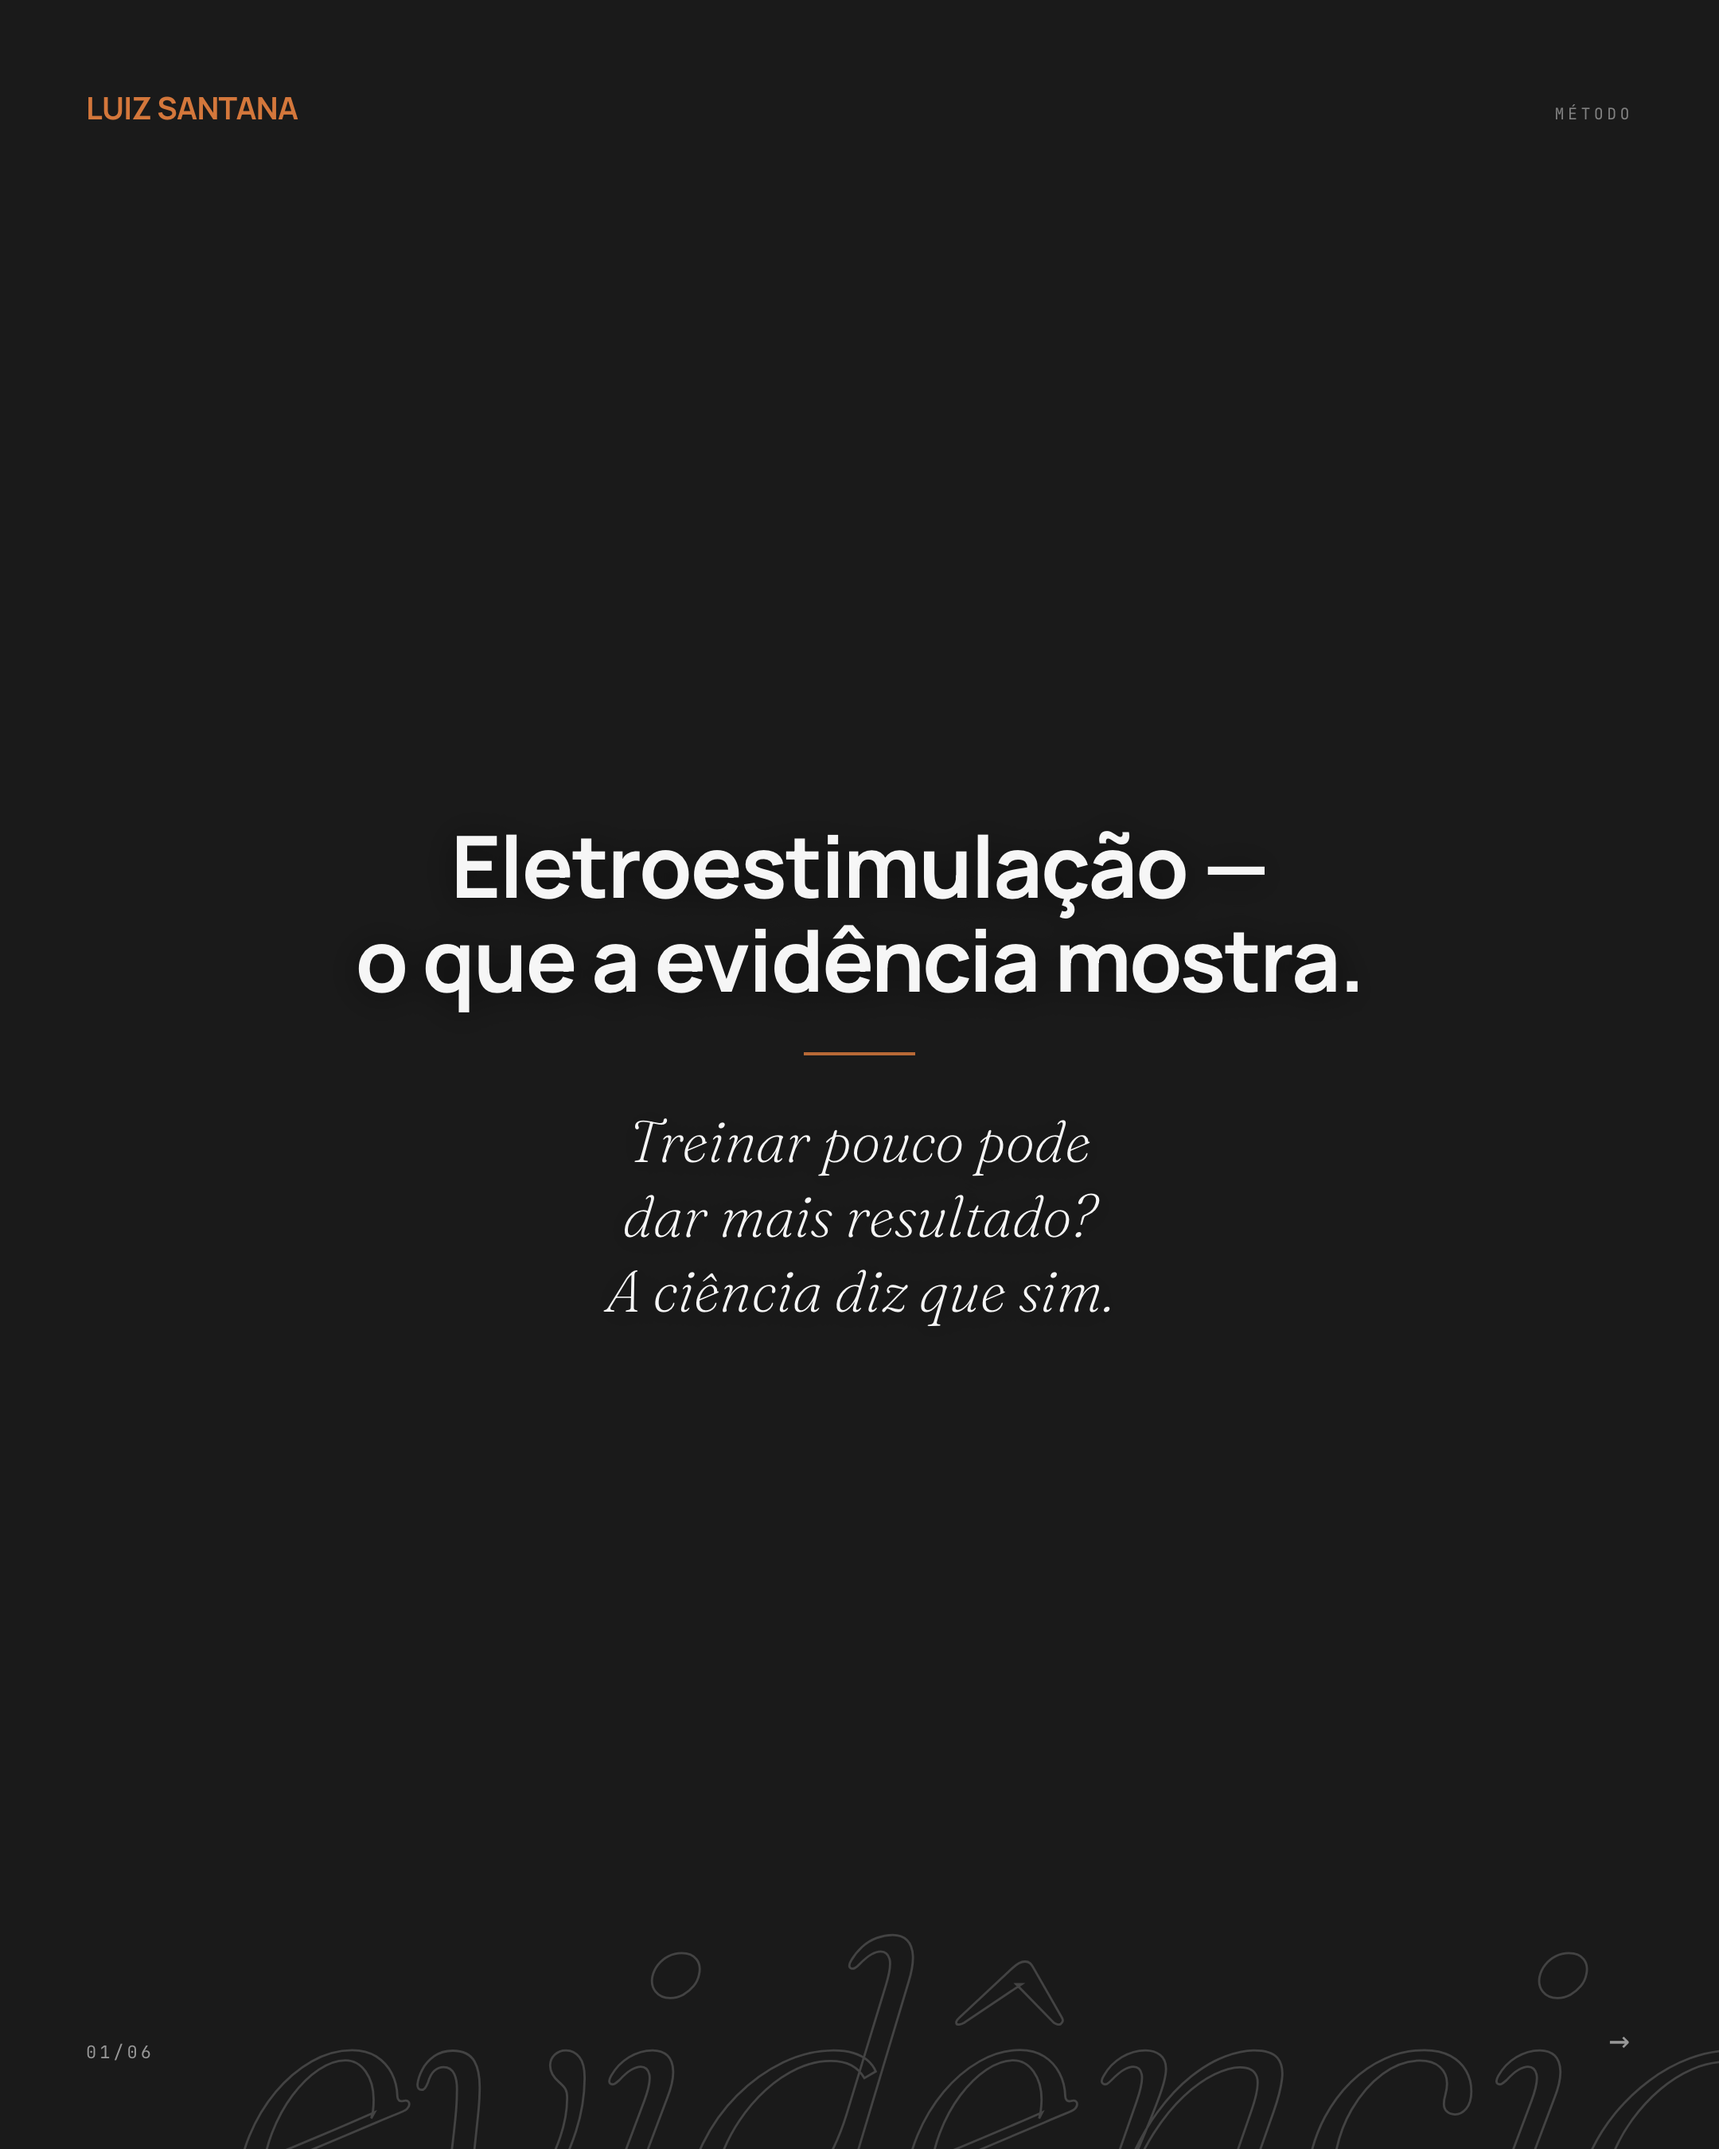
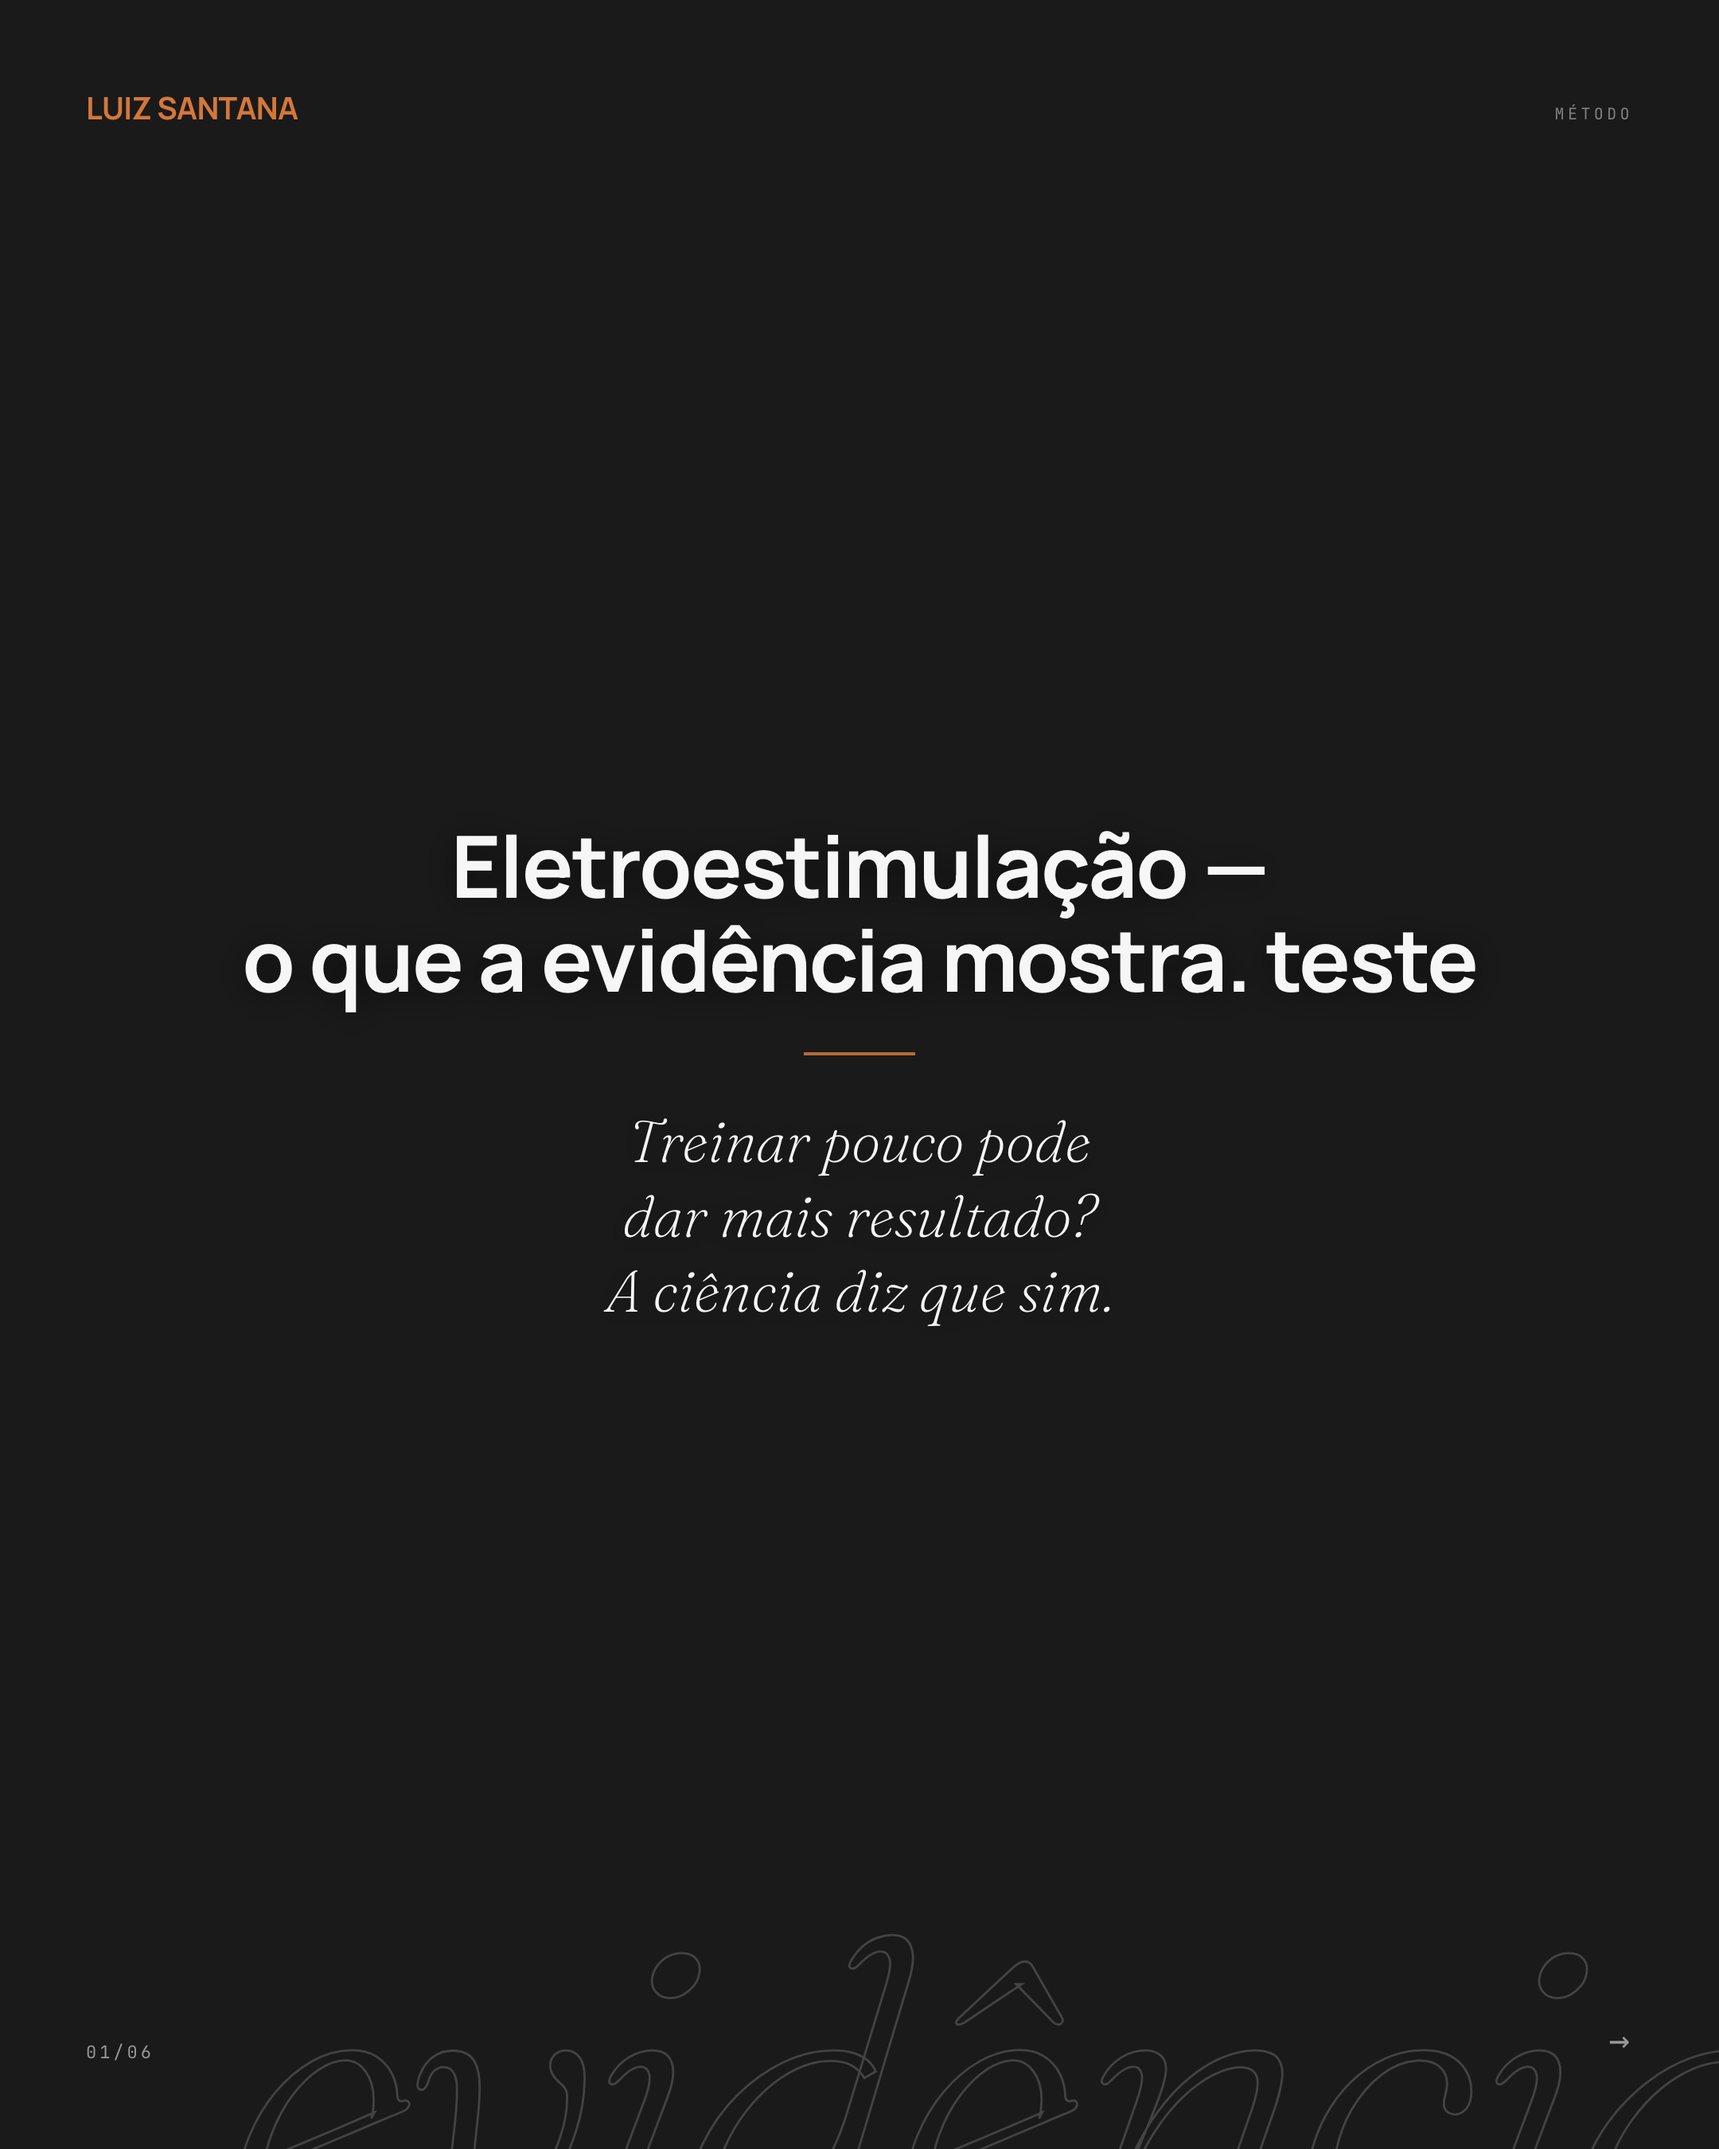
content(luiz c02): aplicar a edição da página de aprovação (teste/TESTE)
O cliente editou o c02 na página de aprovação (slide 1 +"teste", slide 2
+"TESTE"). Bake da edição no HTML do carrossel + re-render dos _shots, já com
as quebras de linha corretas (a versão antiga em cache tinha colado palavras).
items.json + overrides no Supabase alinhados para a página de aprovação mostrar
exatamente o que é publicado — a página de aprovação manda, não se substitui.

Bump luiz 20260527-2330 -> 20260527-2350.

Changed region(s): [[0.1241, 0.4356, 0.8685, 0.4667]]

diff --git a/public/brands/luiz_santana/output/2026-05/carrosseis/c02-metodo-ciencia.html b/public/brands/luiz_santana/output/2026-05/carrosseis/c02-metodo-ciencia.html
@@ -168,7 +168,7 @@ h1, h2, h3, p, blockquote, .num {
   <div class="bg-word" aria-hidden="true">evidência</div>
   <div class="slide__top"><span class="brand-glyph">Luiz Santana</span><span class="cap-index">Método</span></div>
   <div class="slide__body">
-    <h1>Eletroestimulação&nbsp;—<br>o&nbsp;que&nbsp;a&nbsp;evidência&nbsp;mostra.</h1>
+    <h1>Eletroestimulação&nbsp;—<br>o&nbsp;que&nbsp;a&nbsp;evidência&nbsp;mostra.&nbsp;teste</h1>
     <div class="accent-rule"></div>
     <p class="slide__hook">Treinar&nbsp;pouco&nbsp;pode<br>dar&nbsp;mais&nbsp;resultado?<br>A&nbsp;ciência&nbsp;diz&nbsp;que&nbsp;sim.</p>
   </div>
@@ -178,7 +178,7 @@ h1, h2, h3, p, blockquote, .num {
 
 <article class="slide slide--type" id="slide-2">
   <div class="slide__top"><span class="brand-glyph">Luiz Santana</span></div>
-  <div class="slide__body"><h1>Eletroestimulação<br>de&nbsp;corpo&nbsp;inteiro&nbsp;pode<br>chegar&nbsp;até&nbsp;90%<br>das&nbsp;fibras&nbsp;musculares.<br>Profundas&nbsp;incluídas.</h1></div>
+  <div class="slide__body"><h1>Eletroestimulação<br>de&nbsp;corpo&nbsp;inteiro&nbsp;pode<br>chegar&nbsp;até&nbsp;90%<br>das&nbsp;fibras&nbsp;musculares.<br>Profundas&nbsp;incluídas.&nbsp;TESTE</h1></div>
   <div class="slide__bottom"><span>02/06</span><span class="arrow">→</span></div>
 </article>
 

diff --git a/public/aprovacao-luiz-202605/js/config.js b/public/aprovacao-luiz-202605/js/config.js
@@ -33,4 +33,4 @@ export const AUTH_ENABLED = false;
 // Versão do app. Comparada periodicamente contra /version.txt no servidor.
 // Se divergir, o badge muda para "🔄 Nova versão" e o user sabe que está
 // numa sessão desactualizada. Bump em cada deploy importante.
-export const APP_VERSION = "20260527-2330";
+export const APP_VERSION = "20260527-2350";

diff --git a/public/aprovacao-luiz-202605/index.html b/public/aprovacao-luiz-202605/index.html
@@ -3,7 +3,7 @@
 <head>
 <meta charset="utf-8" />
 <meta name="viewport" content="width=device-width,initial-scale=1" />
-<meta name="app-version" content="20260527-2330" />
+<meta name="app-version" content="20260527-2350" />
 <title>Aprovação · Conteúdo</title>
 
 <script>

diff --git a/CLAUDE.md b/CLAUDE.md
@@ -4,11 +4,11 @@
 
 <!-- claude-evolve:managed-start -->
 
-<!-- claude-evolve:rule id=r_mpbf8j0x_pt93 score=5.8 created=2026-05-18 source=observation complexity=simple -->
+<!-- claude-evolve:rule id=r_mpbf8j0x_pt93 score=5.9 created=2026-05-18 source=observation complexity=simple -->
 - After a git push, immediately start a polling loop against the GitHub Actions API using head_sha to confirm the correct commit's CI run reached a conclusive state before closing the task.
 <!-- /claude-evolve:rule -->
 
-<!-- claude-evolve:rule id=r_mpe077jp_8i1x score=6.6 created=2026-05-20 source=observation complexity=simple -->
+<!-- claude-evolve:rule id=r_mpe077jp_8i1x score=7 created=2026-05-20 source=observation complexity=simple -->
 - After any functional change to a web app, bump the version atomically in all three locations: version.txt, js/config.js (APP_VERSION constant), and index.html (<meta name="app-version">). Do all three in one pass; never update only a subset.
 <!-- /claude-evolve:rule -->
 
@@ -28,7 +28,7 @@
 - When navigating to a Cloudflare dashboard page that may have a cookie/consent dialog, use mcp__claude-in-chrome__find to detect dialog buttons before attempting any interactive actions — this avoids clicking on blocked UI elements.
 <!-- /claude-evolve:rule -->
 
-<!-- claude-evolve:rule id=r_mplcyorz_m74k score=5.3 created=2026-05-25 source=observation complexity=simple -->
+<!-- claude-evolve:rule id=r_mplcyorz_m74k score=5.5 created=2026-05-25 source=observation complexity=simple -->
 - When diagnosing a CI/CD deployment failure, navigate to the actual dashboard (Cloudflare Pages, GitHub Actions) to visually confirm the project exists and the account ID is correct before editing config files — do not assume secrets are correct.
 <!-- /claude-evolve:rule -->
 
@@ -36,7 +36,7 @@
 - When fixing a deployment that fails due to a wrong account ID secret, hardcode the verified account ID directly into the workflow file rather than relying on a secret that may point to the wrong account.
 <!-- /claude-evolve:rule -->
 
-<!-- claude-evolve:rule id=r_mplcyosw_d029 score=5.7 created=2026-05-25 source=anti_pattern complexity=simple -->
+<!-- claude-evolve:rule id=r_mplcyosw_d029 score=5.5 created=2026-05-25 source=anti_pattern complexity=simple -->
 - After navigating to a new page with claude-in-chrome, do not immediately call read_page or find — take a screenshot first to confirm the page loaded and is in the expected state, then decide whether interactive elements or a find query are appropriate.
 <!-- /claude-evolve:rule -->
 
